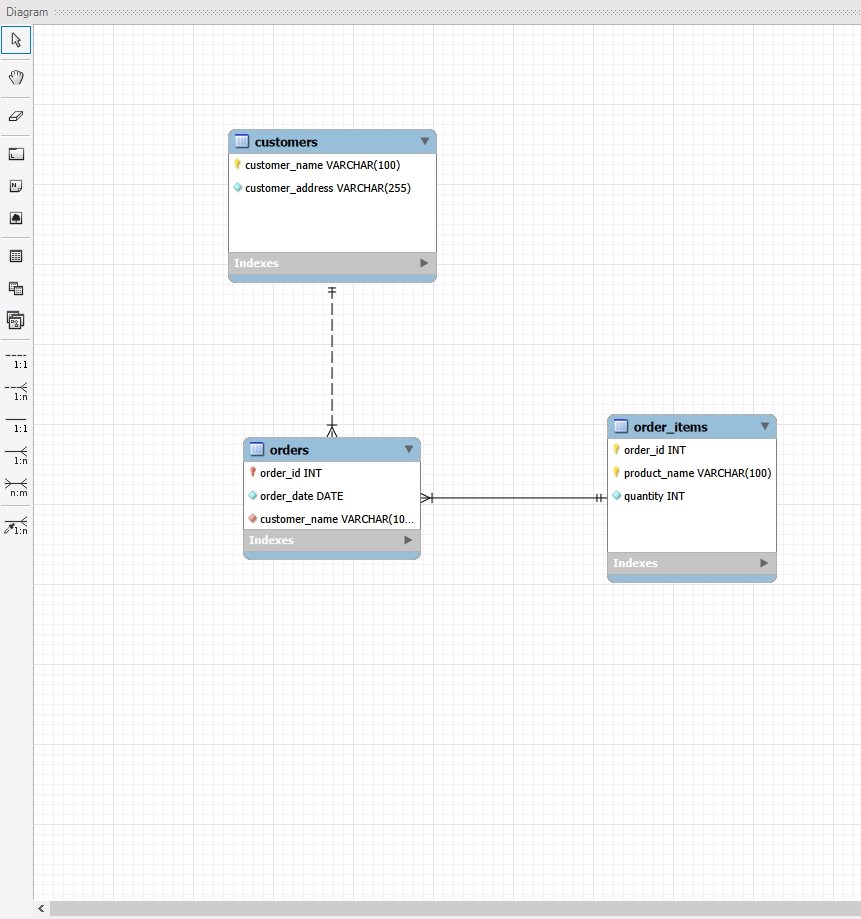
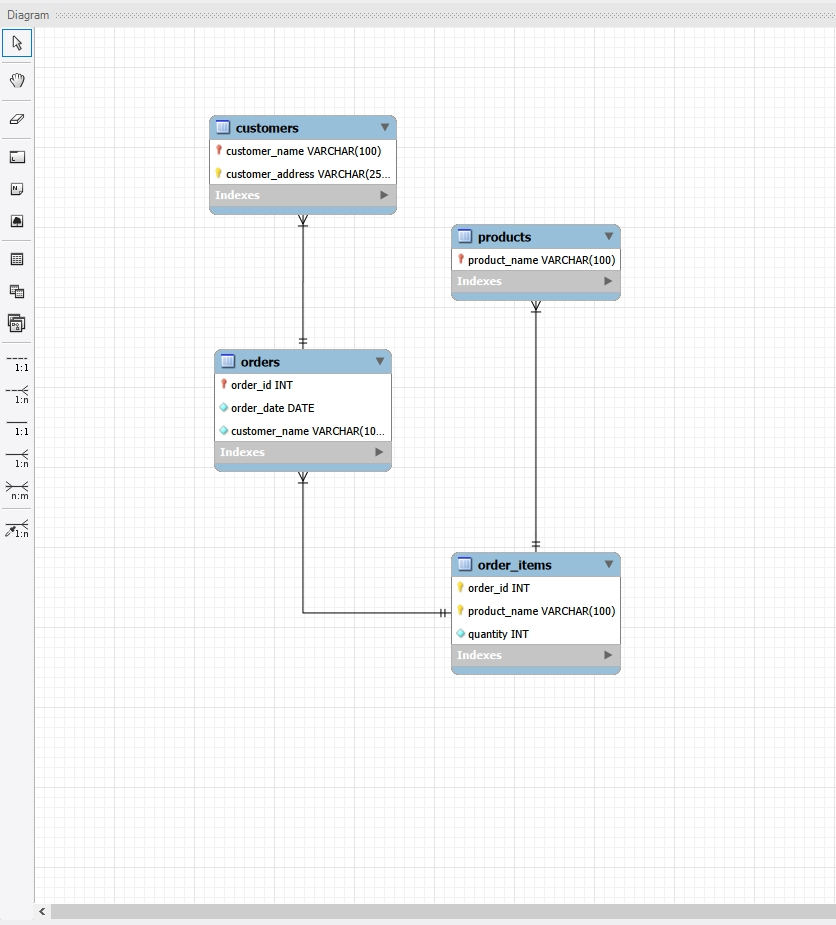
hw02-fix-3nf

diff --git a/README.md b/README.md
@@ -13,10 +13,10 @@
 
 ## 2. Перша нормальна форма (1НФ)
 
-Початкова таблиця не відповідає першій нормальній формі, оскільки поле **«Назва_товару і кількість»** містить неатомарні значення: в одному полі зберігаються одразу назва товару та кількість, а також в одному записі можуть міститися декілька товарів.
+Початкова таблиця не відповідає першій нормальній формі, оскільки поле **«Назва_товару і кількість»** містить неатомарні значення: в одному полі зберігаються і назва товару, і кількість, а також в одному записі можуть бути вказані декілька товарів.
 
 Для приведення таблиці до 1НФ необхідно:
-- розділити поле **«Назва_товару і кількість»** на окремі атрибути:
+- розділити поле **«Назва_товару і кількість»** на два окремі атрибути:
   - `Назва_товару`
   - `Кількість`
 - винести кожен товар в окремий рядок.
@@ -73,14 +73,16 @@
 
 ## 4. Третя нормальна форма (3НФ)
 
-Структура у 2НФ все ще не відповідає 3НФ, оскільки в таблиці `Замовлення` є транзитивна залежність:
+Структура у 2НФ все ще не відповідає 3НФ, оскільки:
+- у таблиці `Замовлення` є транзитивна залежність:  
+  `Номер_замовлення` → `Клієнт` → `Адреса_клієнта`
+- у таблиці `Товари_в_замовленні` назва товару зберігається без окремої сутності `Товари`, тому інформація про товари дублюється в різних замовленнях
 
-- `Номер_замовлення` → `Клієнт`
-- `Клієнт` → `Адреса_клієнта`
-
-Отже, `Адреса_клієнта` залежить від `Клієнт`, а не безпосередньо від ключа `Номер_замовлення`.
-
-Для приведення до 3НФ виносимо інформацію про клієнтів в окрему таблицю.
+Для приведення до 3НФ:
+- виносимо інформацію про клієнтів в окрему таблицю `customers`
+- виносимо інформацію про товари в окрему таблицю `products`
+- у таблиці `orders` залишаємо тільки дані замовлення
+- у таблиці `order_items` залишаємо лише зв’язок між замовленням і товаром та кількість
 
 ### Остаточні таблиці у 3НФ
 
@@ -92,6 +94,14 @@
 | Шевченко | Басейна 2 |
 | Коваленко | Комп’ютерна 3 |
 
+#### Таблиця `products`
+
+| product_name (PK) |
+|---|
+| Лептоп |
+| Мишка |
+| Принтер |
+
 #### Таблиця `orders`
 
 | order_id (PK) | order_date | customer_name (FK) |
@@ -102,7 +112,7 @@
 
 #### Таблиця `order_items`
 
-| order_id (FK, PK) | product_name (PK) | quantity |
+| order_id (FK, PK) | product_name (FK, PK) | quantity |
 |---|---|---:|
 | 101 | Лептоп | 3 |
 | 101 | Мишка | 2 |
@@ -111,6 +121,7 @@
 
 Після такого розбиття:
 - у таблиці `customers` адреса залежить тільки від клієнта
+- у таблиці `products` назва товару зберігається окремо і не дублюється як незалежна сутність у деталях замовлення
 - у таблиці `orders` дата замовлення та клієнт залежать тільки від номера замовлення
 - у таблиці `order_items` кількість залежить від конкретного товару в конкретному замовленні
 
@@ -126,6 +137,9 @@
 - `customer_name` — VARCHAR(100), PK
 - `customer_address` — VARCHAR(255), NOT NULL
 
+#### `products`
+- `product_name` — VARCHAR(100), PK
+
 #### `orders`
 - `order_id` — INT, PK
 - `order_date` — DATE, NOT NULL
@@ -133,12 +147,13 @@
 
 #### `order_items`
 - `order_id` — INT, PK, FK
-- `product_name` — VARCHAR(100), PK
+- `product_name` — VARCHAR(100), PK, FK
 - `quantity` — INT, NOT NULL
 
 ### Зв’язки
 - `customers` (1) —— (N) `orders`
 - `orders` (1) —— (N) `order_items`
+- `products` (1) —— (N) `order_items`
 
 ---
 
@@ -149,8 +164,8 @@
 - виявлено порушення 1НФ через неатомарне поле `Назва_товару і кількість`;
 - виконано нормалізацію таблиці до 1НФ шляхом розділення товарів на окремі записи;
 - виконано нормалізацію до 2НФ шляхом винесення інформації про замовлення в окрему таблицю;
-- виконано нормалізацію до 3НФ шляхом винесення інформації про клієнтів в окрему таблицю;
-- побудовано структуру ER-діаграми;
-- підготовлено таблиці для подальшого створення в MySQL Workbench.
+- виконано нормалізацію до 3НФ шляхом винесення інформації про клієнтів і товари в окремі таблиці;
+- побудовано ER-діаграму;
+- підготовлено структуру таблиць для створення в MySQL Workbench.
 
 Отримана структура є логічною, зручною для підтримки та відповідає принципам нормалізації реляційних баз даних.
